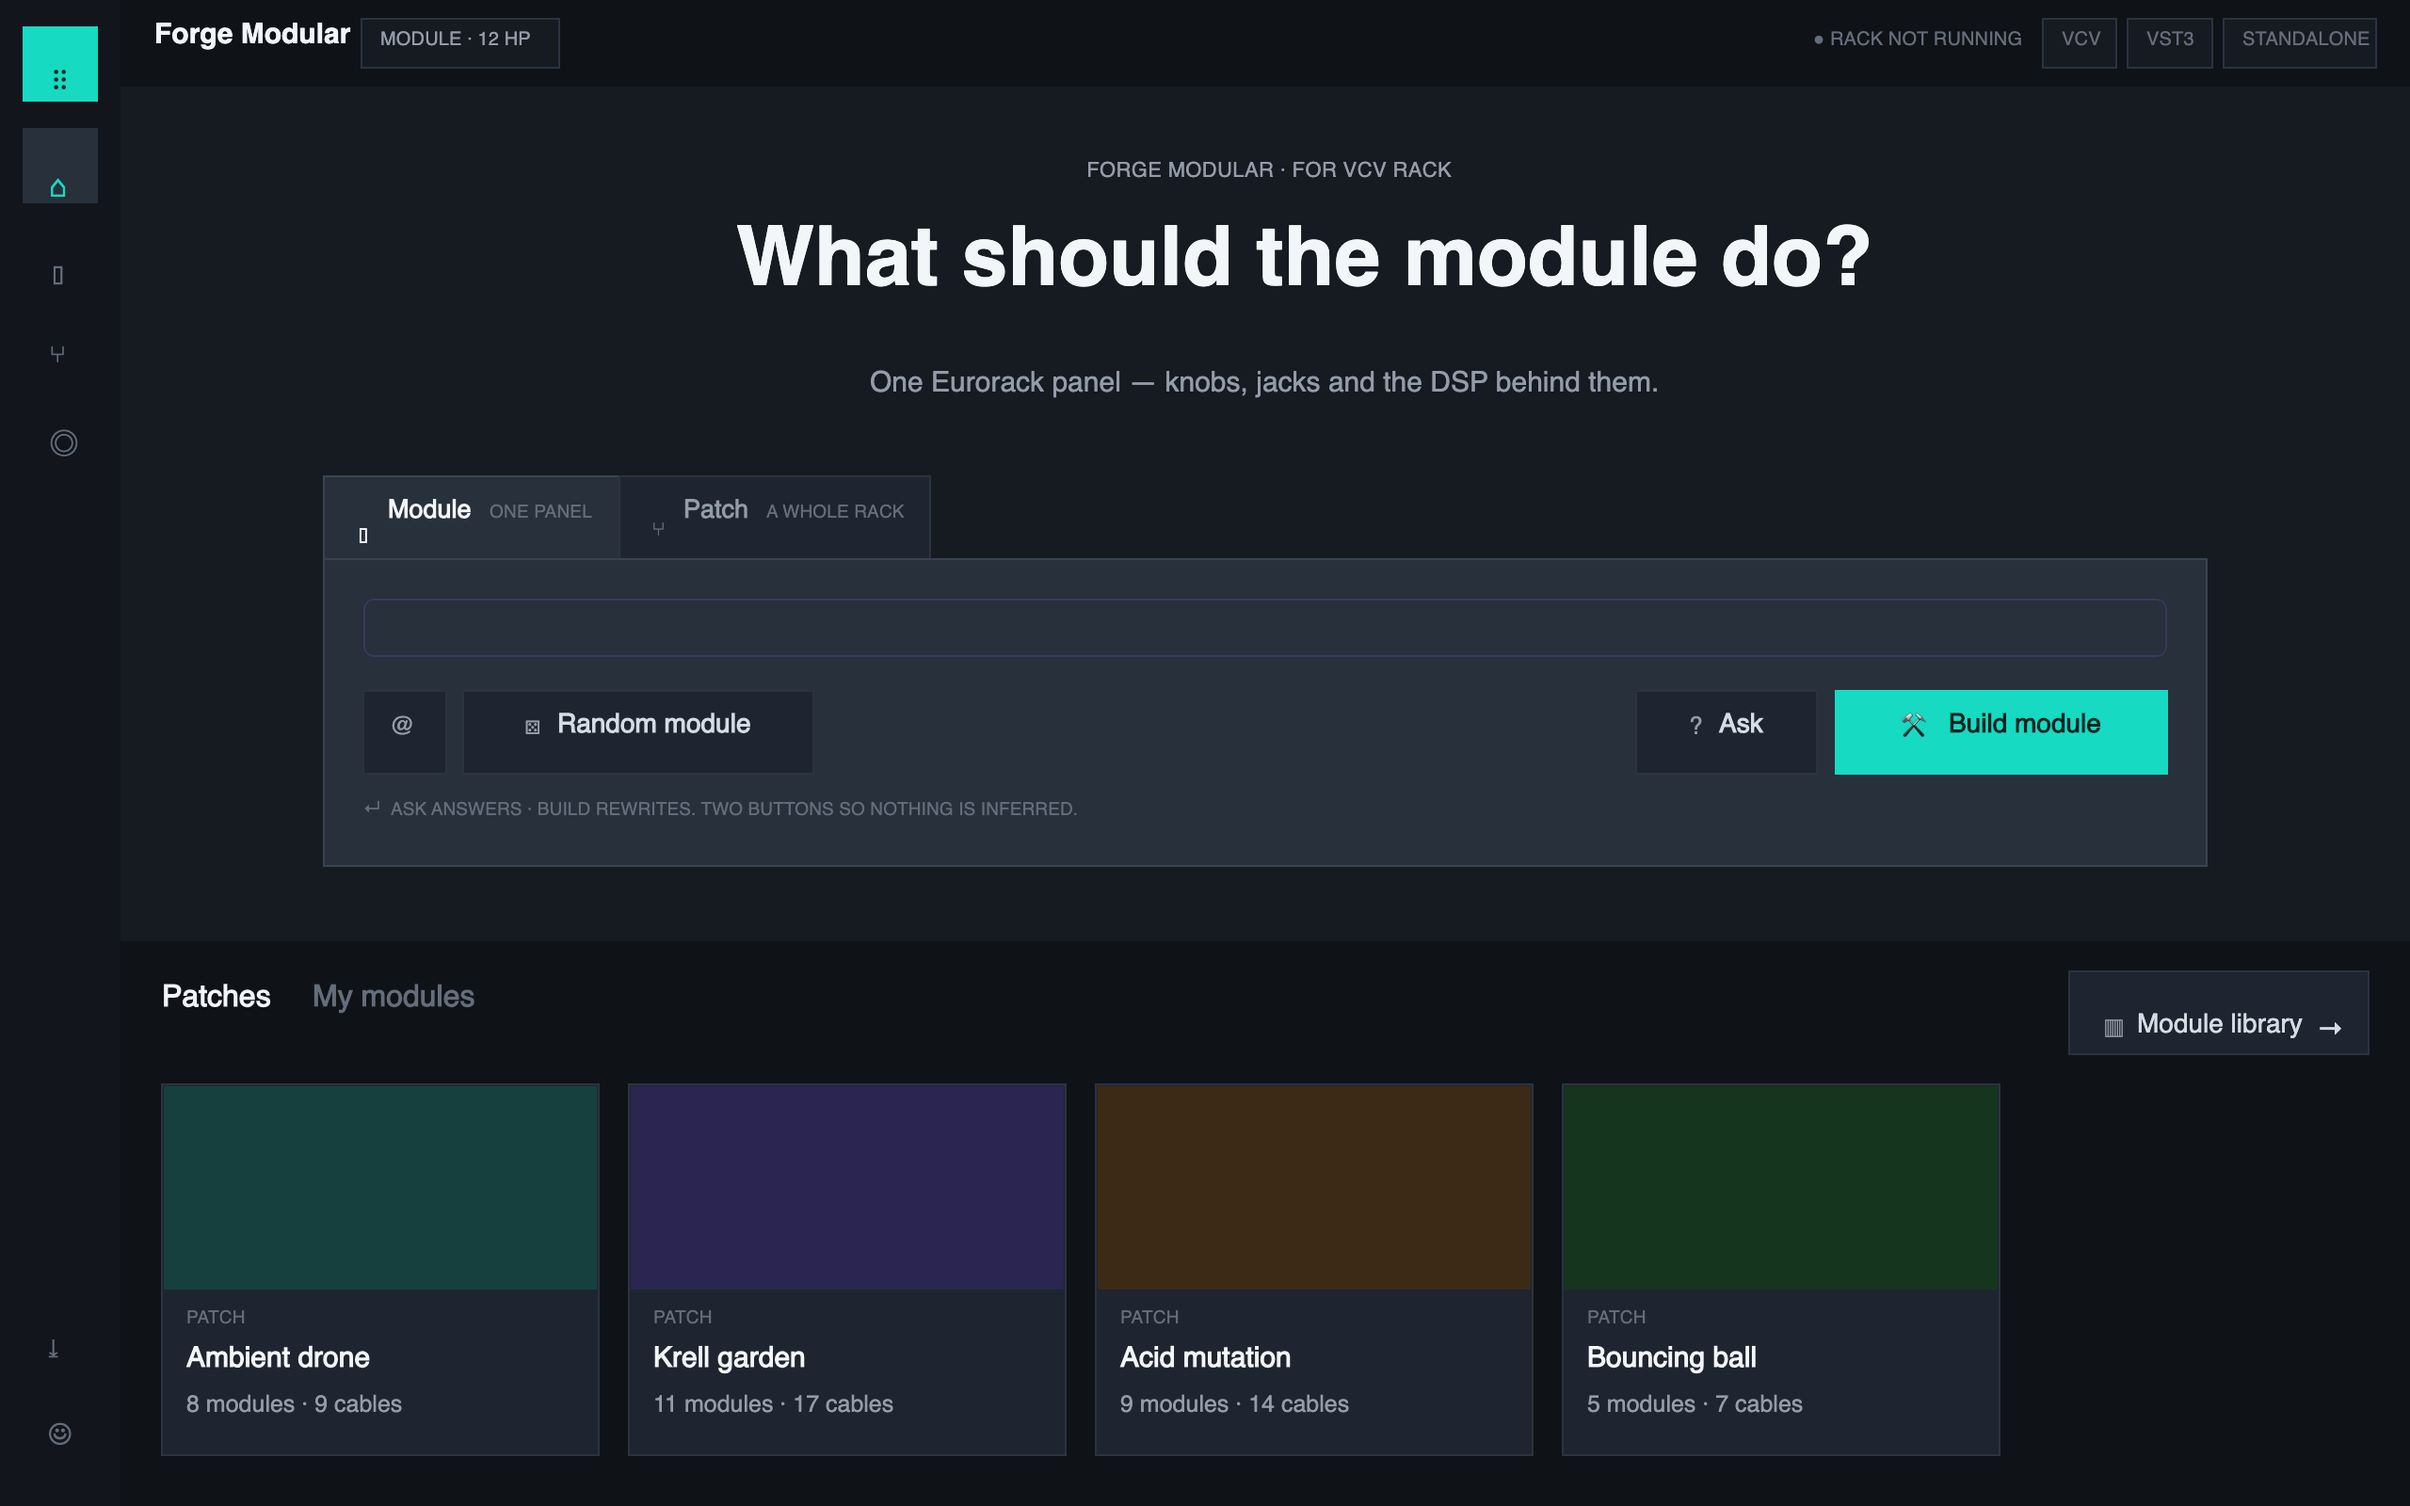
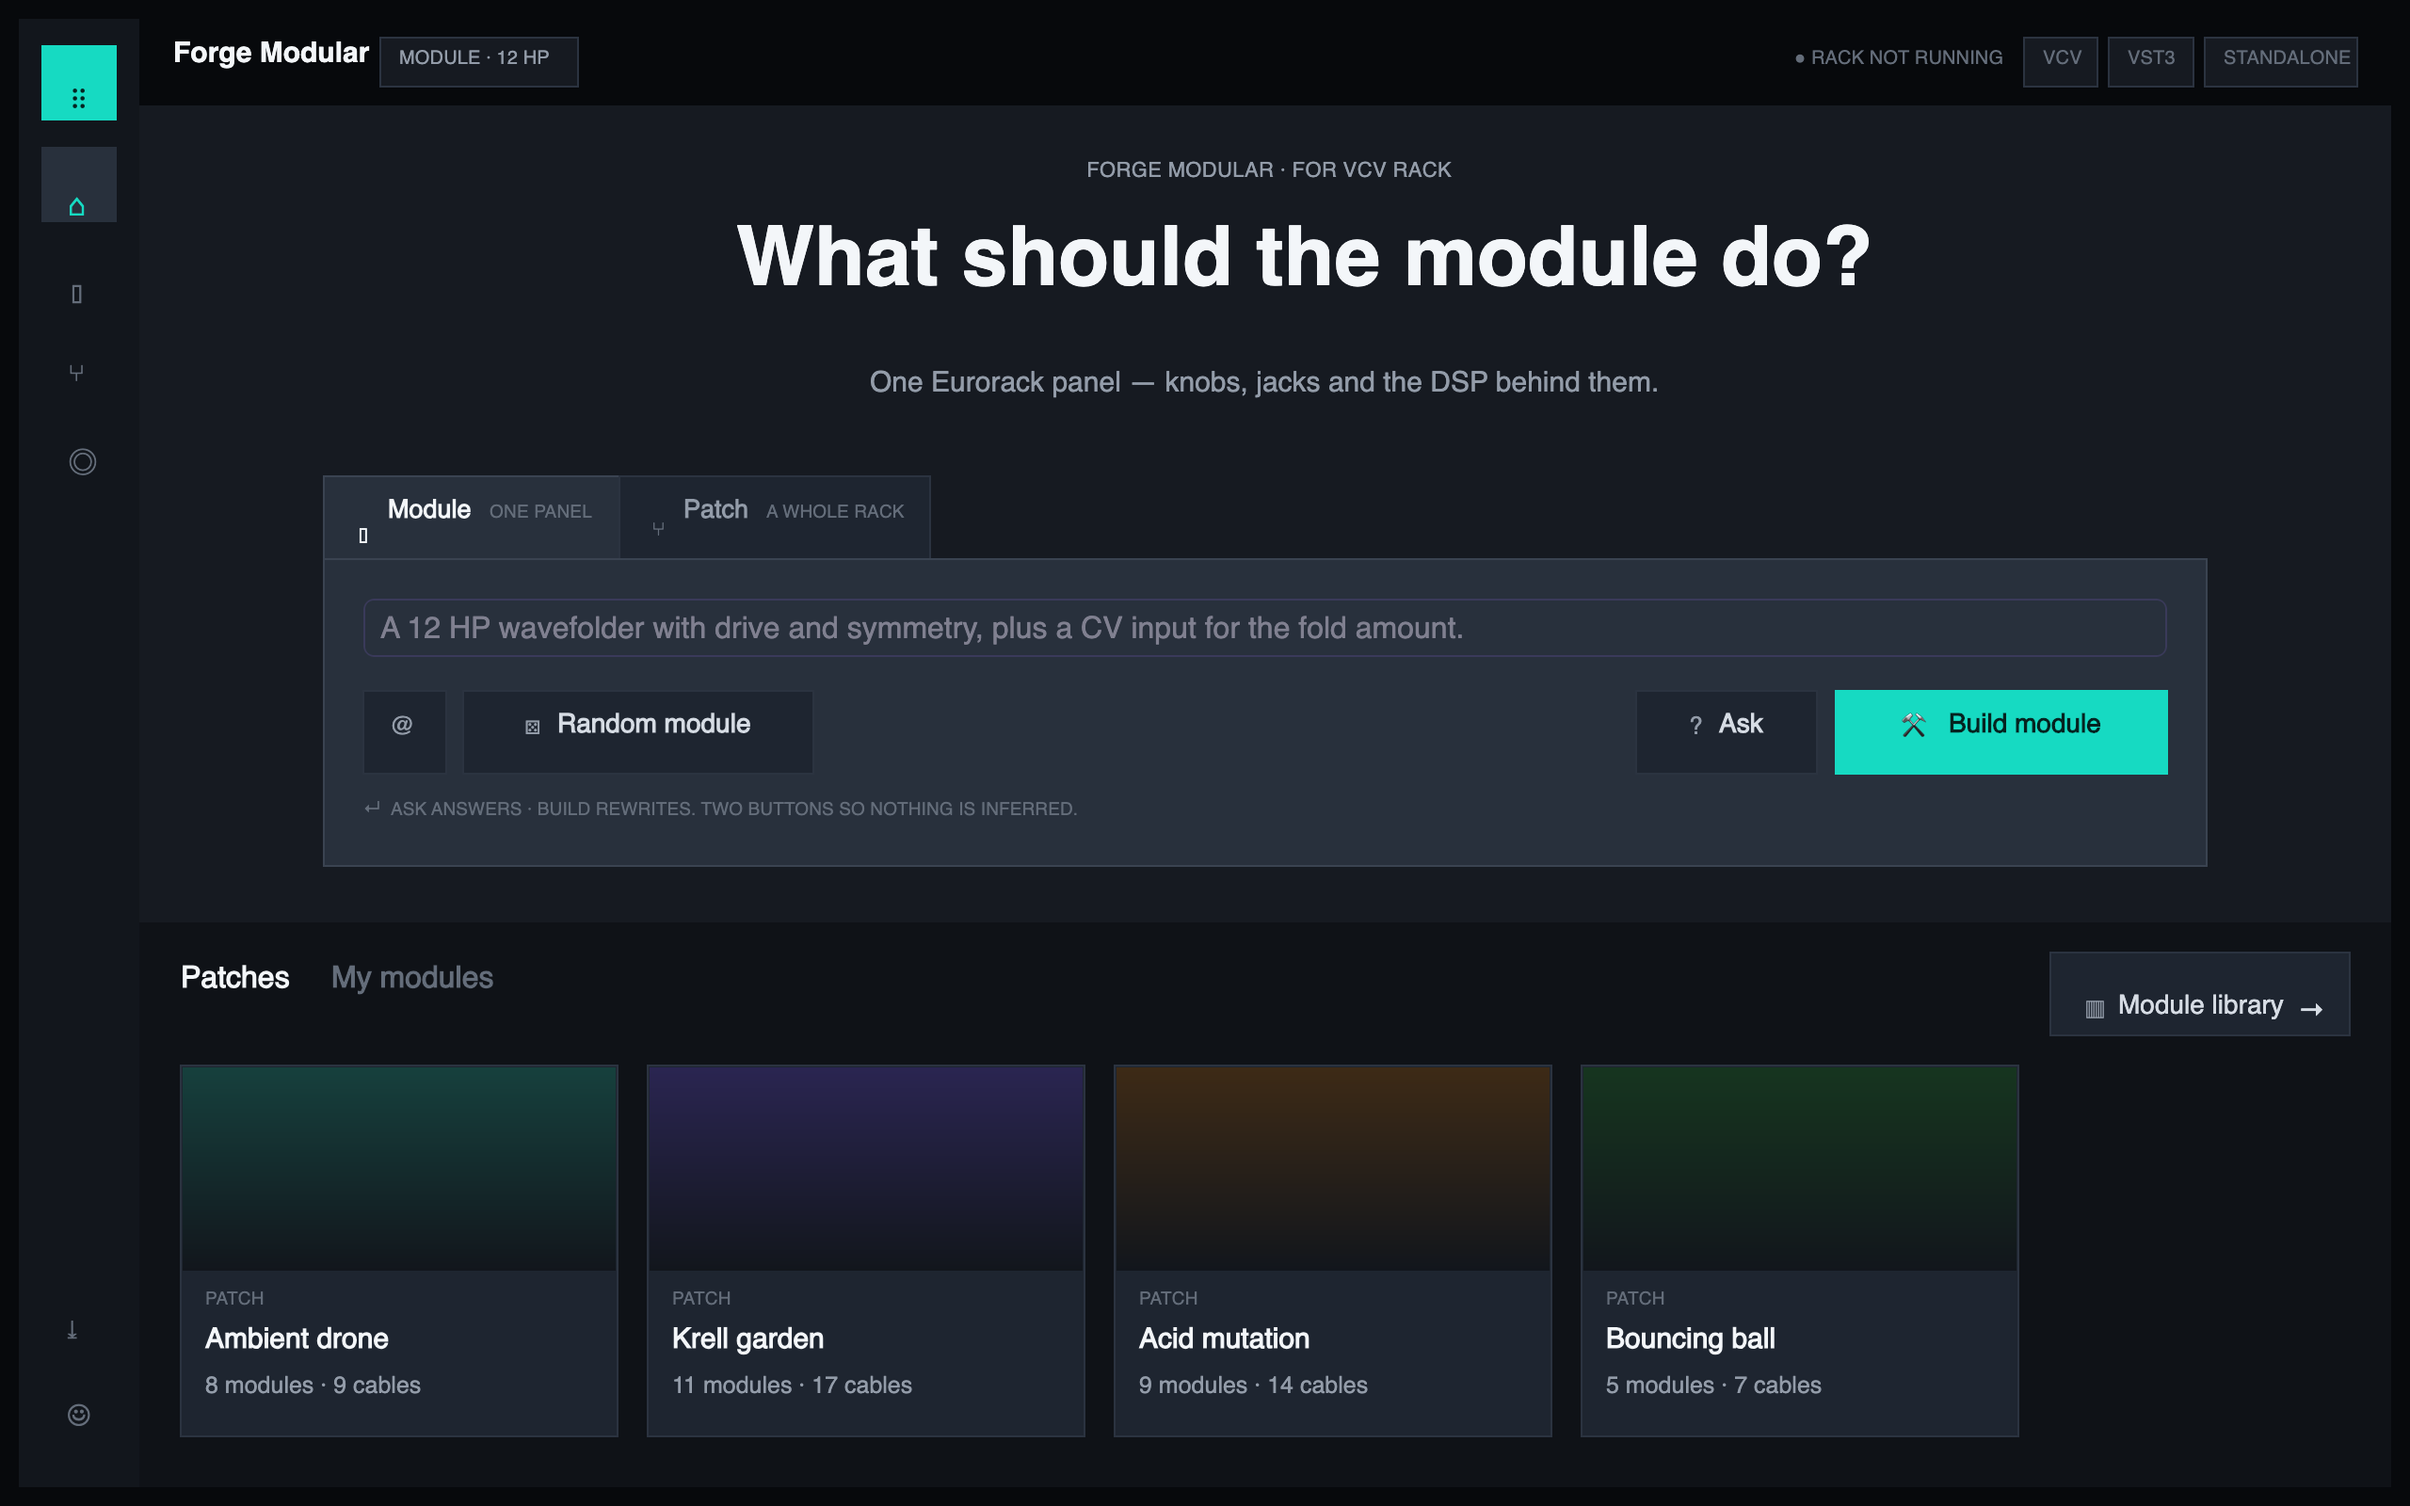
Close the cosmetic gaps the larger reference capture exposed
The composer carries the render's example prompt as a placeholder, the
card art is a gradient rather than a flat tint, the Build pill glows, and
the window is inset from the display edge.

Two of these were wrong on the first attempt and are worth recording. A
gradient built from a palette reference rendered near-white at one end;
it needs the tint as a literal in the CSS string and a dark that exists
in the palette as the far stop. And an underline added as a child of the
shelf tab laid out beside the word instead of under it, pushing the rest
of the shelf across -- it needs the tab to be a column, so it is left out
rather than left broken.

Still absent, both needing assets rather than layout: real icons instead
of text glyphs, and rounded window corners.

diff --git a/examples/forge-modular/app/ui/main.js b/examples/forge-modular/app/ui/main.js
@@ -40,7 +40,9 @@ let mode = "module";      // "module" | "patch"
 // ── root: rail on the left, everything else to its right ─────────────────────
 
 const root = createRow("root");
-setBackground("root", C.appBg);
+setBackground("root", "#07090C");
+const shellPad = 10;
+setFlex("root", "padding", shellPad);
 setFlex("root", "width", "100%");
 setFlex("root", "height", "100%");
 
@@ -246,6 +248,8 @@ setFontSize("prompt", 16);
 setTextColor("prompt", C.muted);
 setBackground("prompt", C.raised);
 setFlex("prompt", "min_height", 30);
+setPlaceholder("prompt",
+    "A 12 HP wavefolder with drive and symmetry, plus a CV input for the fold amount.");
 
 const actions = createRow("actions", "composer");
 setFlex("actions", "align_items", "center");
@@ -297,6 +301,7 @@ setFlex("actions-gap", "flex_grow", 1);
 button("btn-ask", "actions", "?", "Ask", "ghost", 96);
 setFlex("btn-ask", "margin_right", 10);
 button("btn-build", "actions", "⚒", "Build module", "primary", 176);
+setBoxShadow("btn-build", 0, 0, 18, 2, "#16DAC255");
 
 createLabel("composer-hint",
             "↵  ASK ANSWERS · BUILD REWRITES. TWO BUTTONS SO NOTHING IS INFERRED.",
@@ -356,6 +361,8 @@ function card(id, kind, title, count, tint) {
 
     const art = createRow(id + "-art", id);
     setBackground(id + "-art", tint);
+    setBackgroundGradient(id + "-art",
+                          "linear-gradient(160deg, " + tint + " 0%, #12161C 100%)");
     setCornerRadius(id + "-art", 12);
     setFlex(id + "-art", "height", 108);
 
